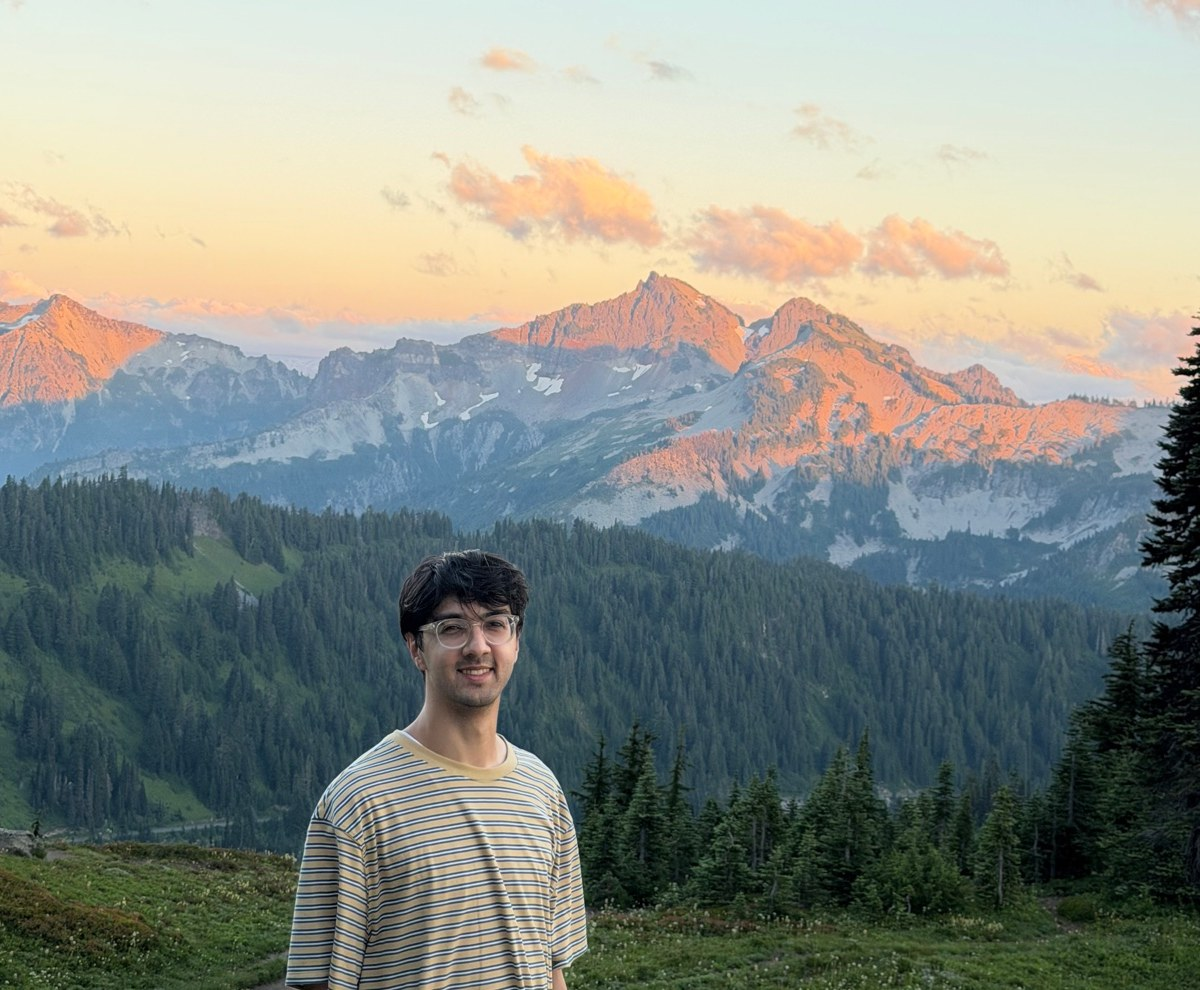
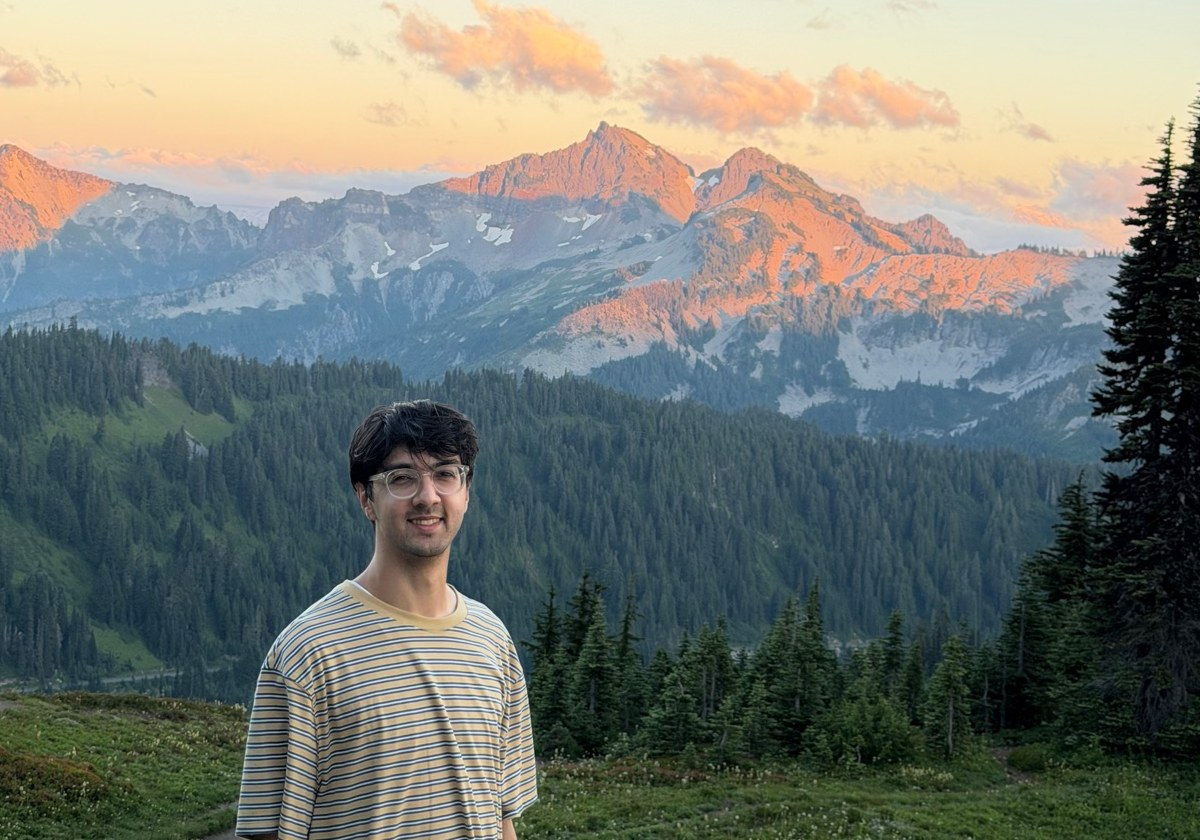
Preview: raise subject in mobile hero crop (v3 framing)

diff --git a/src/pages/home/opening/styles/homepage.module.scss b/src/pages/home/opening/styles/homepage.module.scss
@@ -54,8 +54,8 @@
     min-height: 360px;
     width: 100%;
     background-image: linear-gradient(180deg, rgba(16, 32, 52, 0.12) 40%, rgba(16, 32, 52, 0.9) 100%), url("../images/hero-mobile.jpg");
-    background-position: center, 40% 50%;
-    background-position-x: center, 40%;
+    background-position: center, 32% 50%;
+    background-position-x: center, 32%;
     background-position-y: center, 50%;
   }
 
